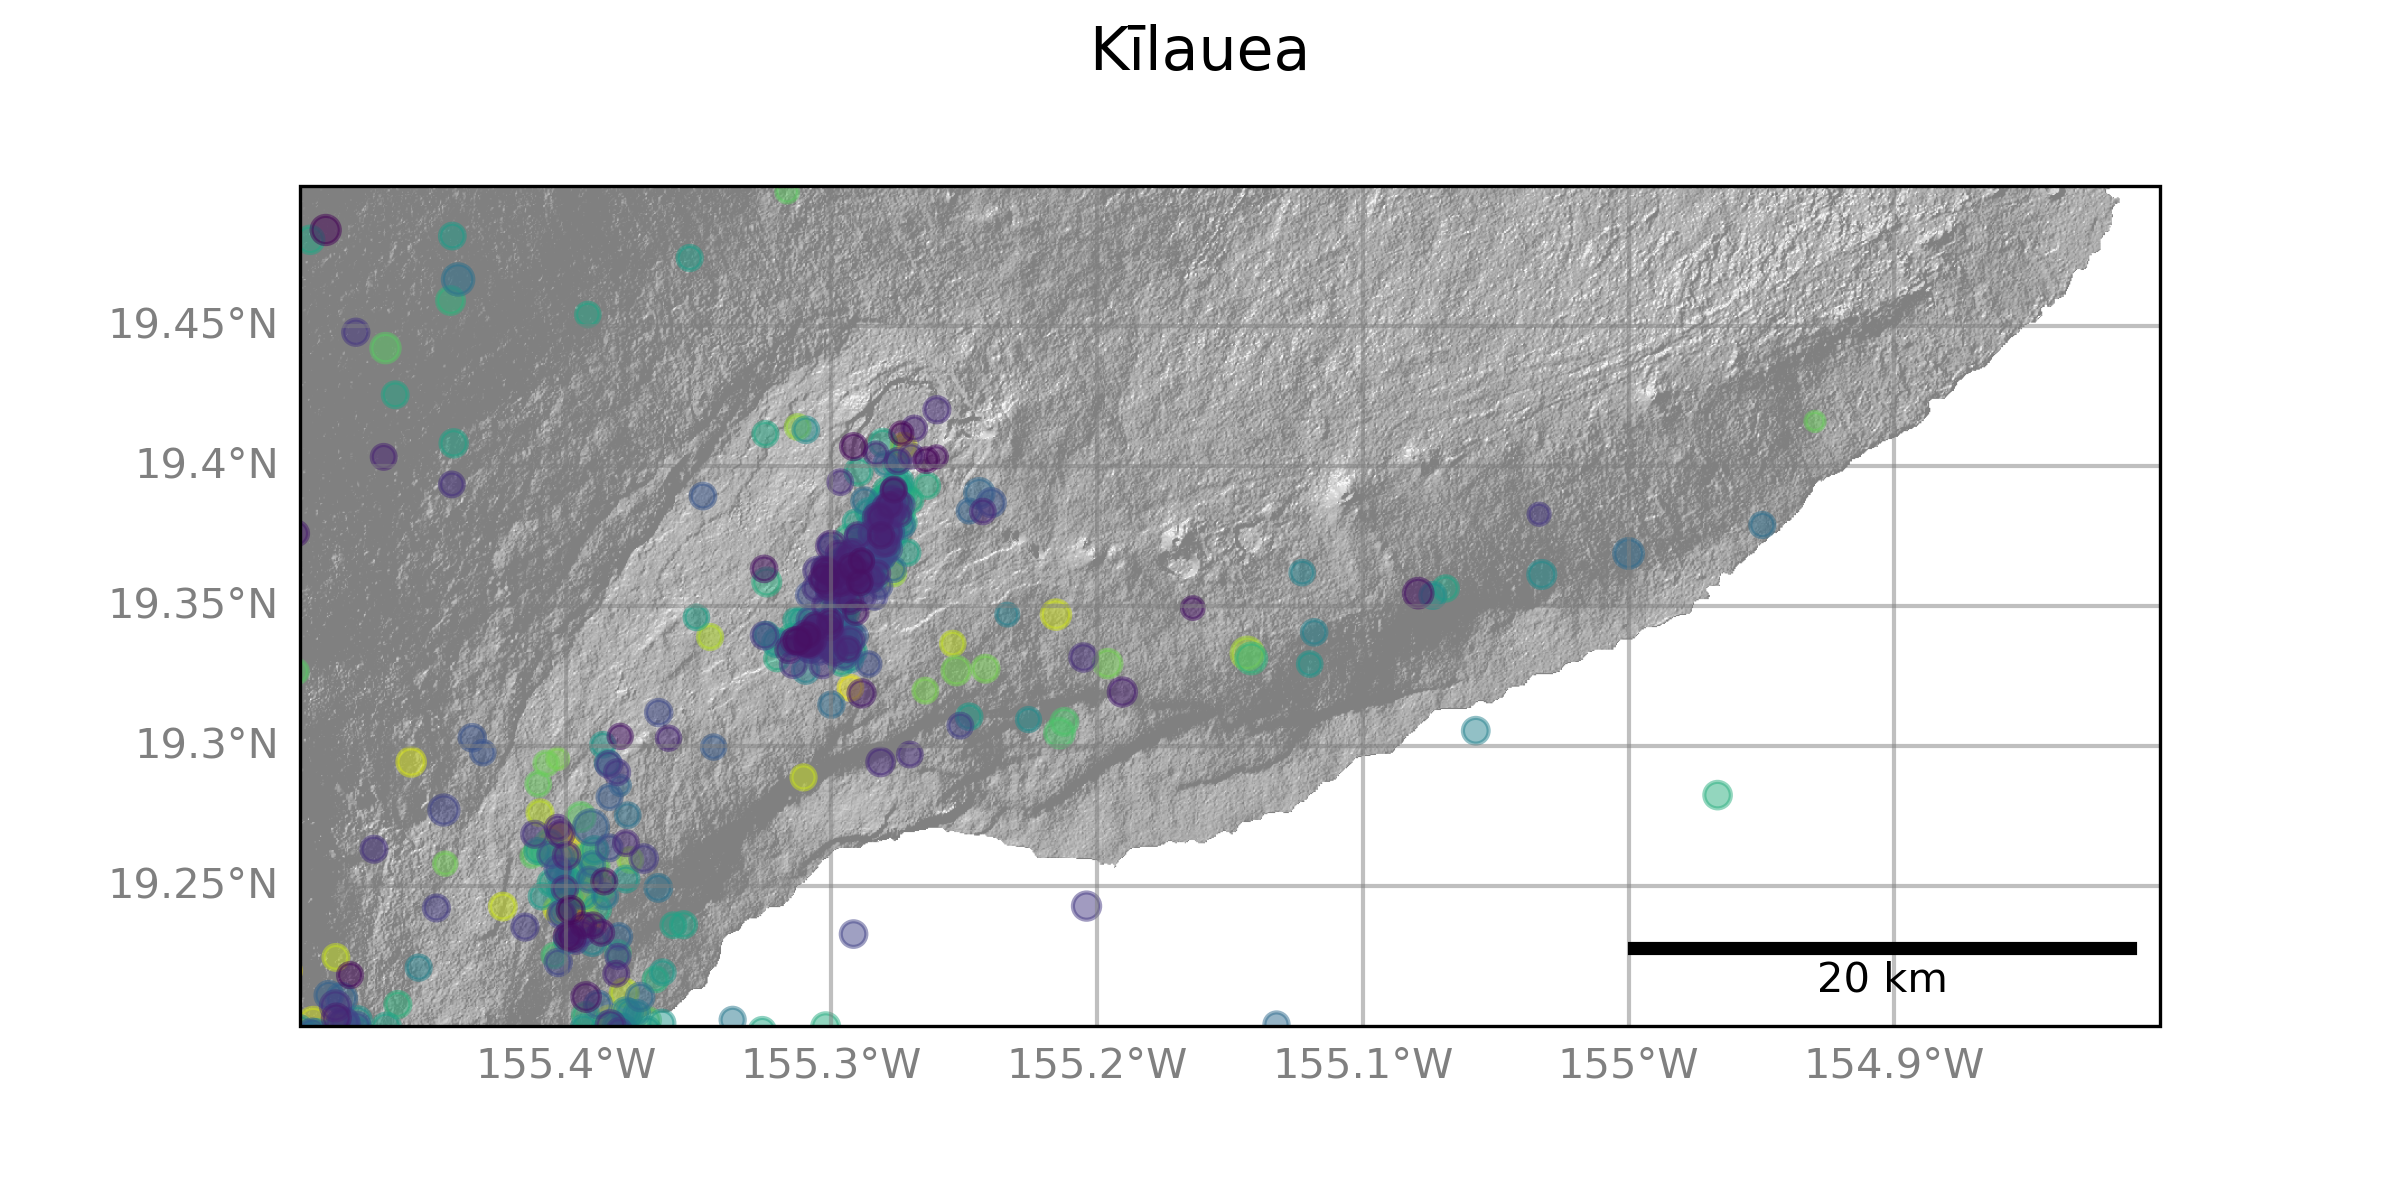
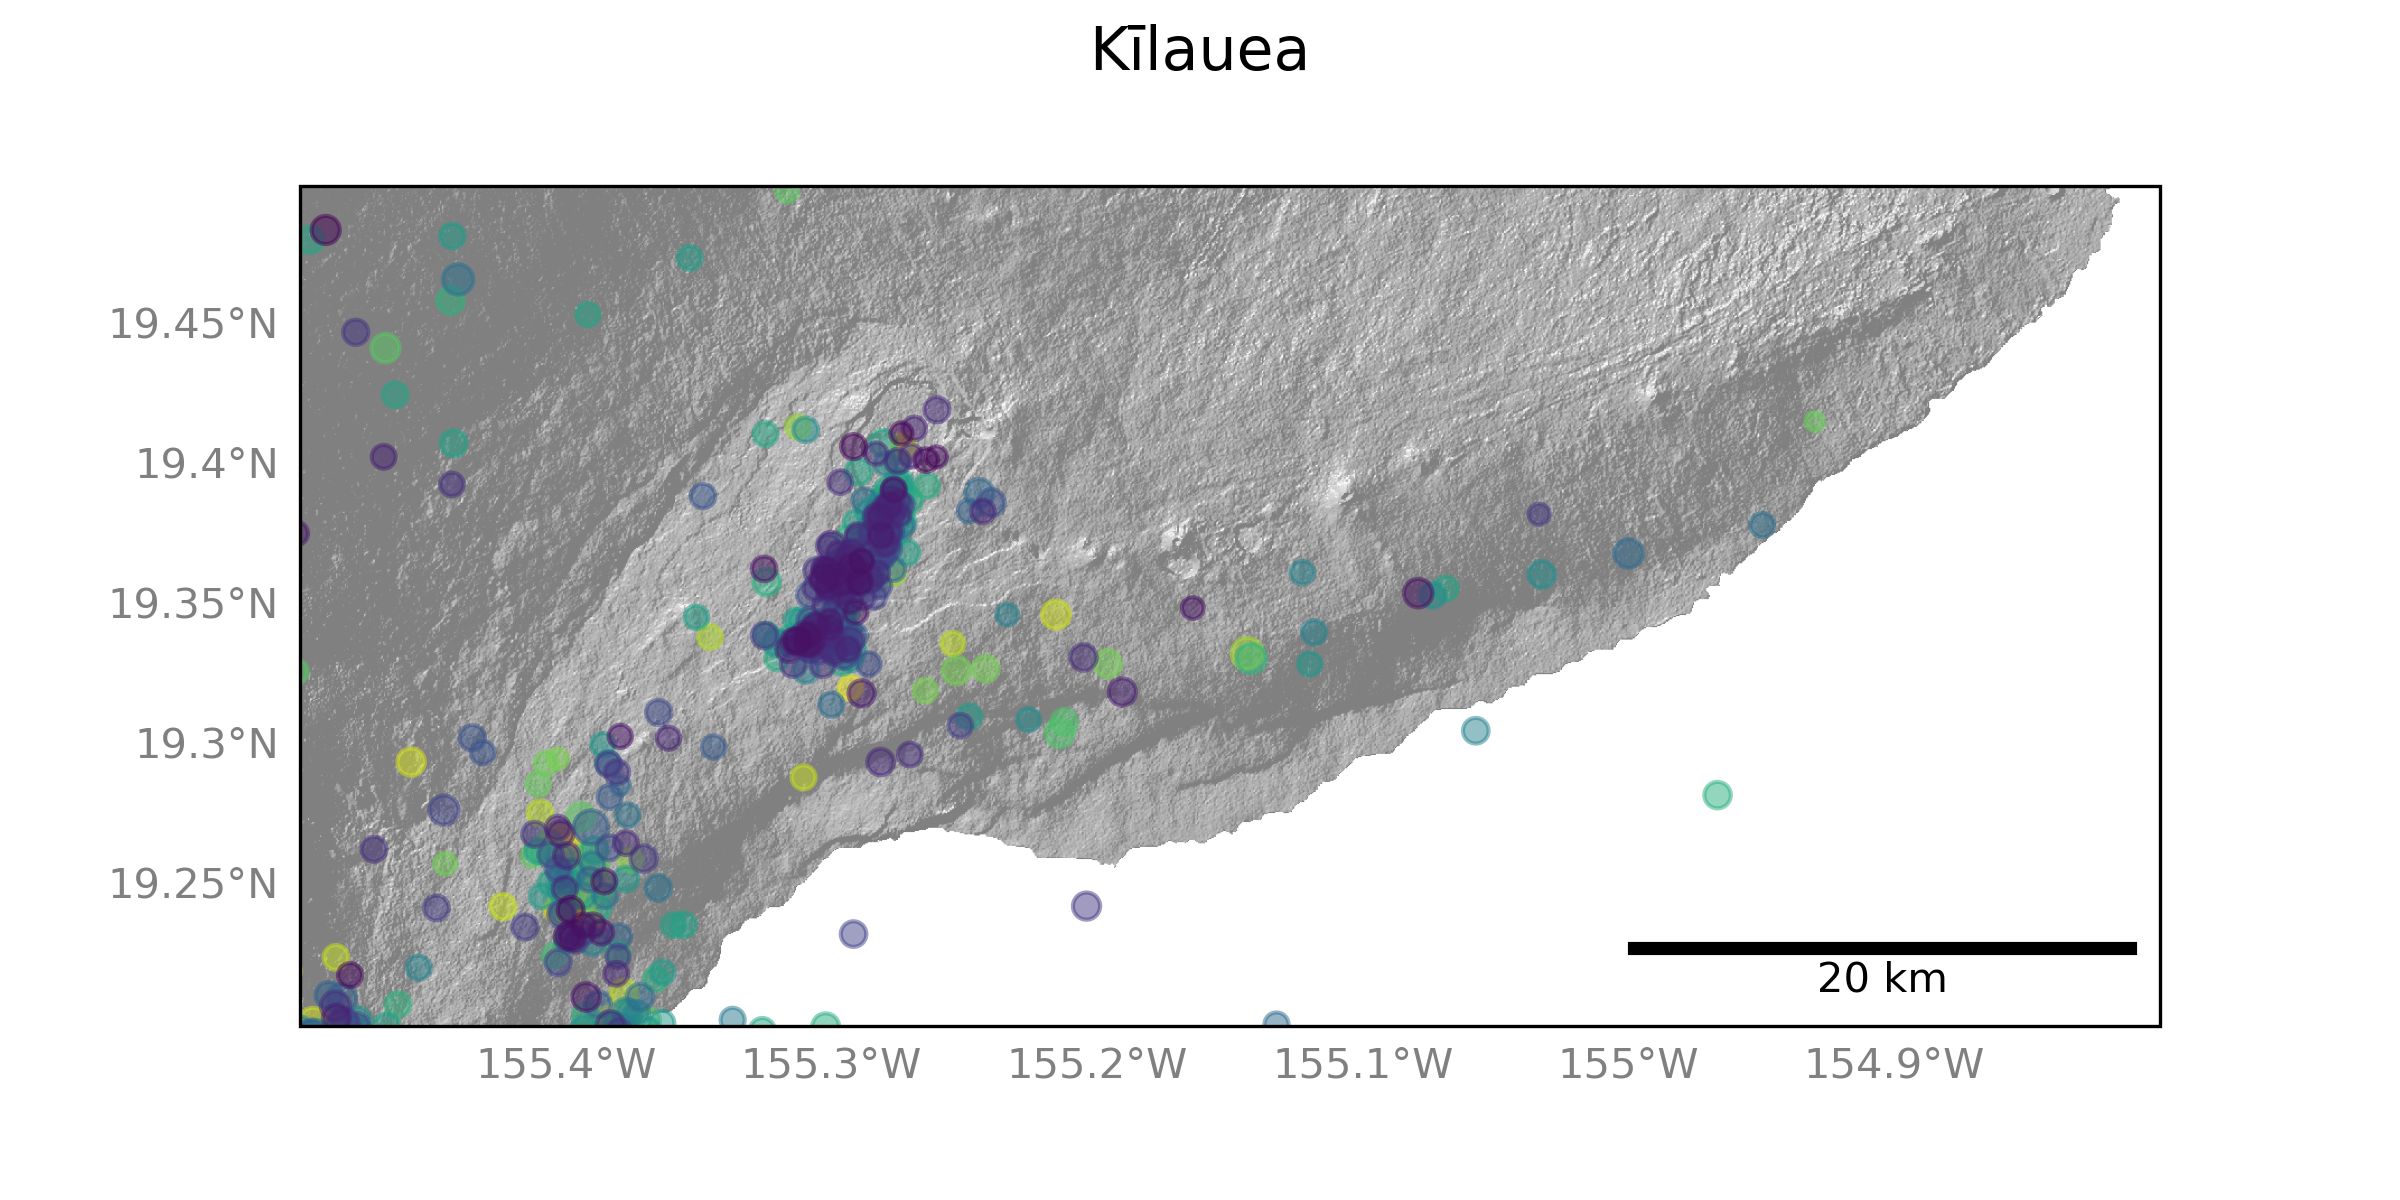
No more gridlines on maps

diff --git a/vdapseisutils/core/maps/maps.py b/vdapseisutils/core/maps/maps.py
@@ -145,7 +145,10 @@ def add_hillshade_pygmt(ax, extent=[-180, 180, -90, 90],
 
     return ax
 
-# Function to convert real-world distance to map units
+########################################################################################################################
+# SCALE BAR
+
+# Distance (km) to _____?
 def get_scale_length(origin, distance_km):
     """
     Convert real-world distance in km to degrees at a given latitude.
@@ -158,7 +161,7 @@ def get_scale_length(origin, distance_km):
     end_lon, end_lat, _ = geod.fwd(lon, lat, 90, distance_km * 1000)  # Move eastward
     return abs(end_lon - lon)  # Return the degree difference
 
-
+# Distance (km) to axes size
 def choose_scale_bar_length(map_width_km, fraction=0.3):
     """
     Given the width of the map in km, return the scale bar length (in km) as the value
@@ -170,10 +173,8 @@ def choose_scale_bar_length(map_width_km, fraction=0.3):
     scale = min(ALLOWED_SCALES, key=lambda x: abs(x - candidate))
     return scale
 
-
 ##############################################################################################################s
 # Misc Axes
-
 
 class MagLegend:
 
@@ -272,62 +273,11 @@ class MagLegend:
             print("M{:>-4.1f} | ms: {:>4.1f} | s: {:>4.1f}".format(M, ms, s))
         print()
 
-
 class ColorBar:
     pass
 
-
-def scale_bar(ax, length=None, location=(0.15, 0.05), linewidth=3):
-    """
-    ax is the axes to draw the scalebar on.
-    length is the length of the scalebar in km.
-    location is center of the scalebar in axis coordinates.
-    (ie. 0.5 is the middle of the plot)
-    linewidth is the thickness of the scalebar.
-
-    Borrowed from: https://stackoverflow.com/questions/32333870/how-can-i-show-a-km-ruler-on-a-cartopy-matplotlib-plot
-    """
-    # Get the limits of the axis in lat long
-    llx0, llx1, lly0, lly1 = ax.get_extent(ccrs.PlateCarree())
-    # Make tmc horizontally centred on the middle of the map,
-    # vertically at scale bar location
-    sbllx = (llx1 + llx0) / 2
-    sblly = lly0 + (lly1 - lly0) * location[1]
-    tmc = ccrs.TransverseMercator(sbllx, sblly)
-    # Get the extent of the plotted area in coordinates in metres
-    x0, x1, y0, y1 = ax.get_extent(tmc)
-    # Turn the specified scalebar location into coordinates in metres
-    sbx = x0 + (x1 - x0) * location[0]
-    sby = y0 + (y1 - y0) * location[1]
-
-    # Calculate a scale bar length if none has been given
-    # (Theres probably a more pythonic way of rounding the number but this works)
-    if not length:
-        length = (x1 - x0) / 5000  # in km
-        ndim = int(np.floor(np.log10(length)))  # number of digits in number
-        length = round(length, -ndim)  # round to 1sf
-
-        # Returns numbers starting with the list
-        def scale_number(x):
-            if str(x)[0] in ['1', '2', '5']:
-                return int(x)
-            else:
-                return scale_number(x - 10 ** ndim)
-
-        length = scale_number(length)
-
-    # Generate the x coordinate for the ends of the scalebar
-    bar_xs = [sbx - length * 500, sbx + length * 500]
-    # Plot the scalebar
-    ax.plot(bar_xs, [sby, sby], transform=tmc, color='k', linewidth=linewidth)
-    # Plot the scalebar label
-    ax.text(sbx, sby, str(length) + ' km', transform=tmc, fontsize=afs,
-            horizontalalignment='center', verticalalignment='bottom')
-
-
 ##############################################################################################################s
 # Misc utils
-
 
 def prep_catalog_data_mpl(catalog, s="magnitude", c="time", maglegend=MagLegend(), time_format="matplotlib"):
     """ PREPCATALOG Converts ObsPy Catalog object to DataFrame w fields appropriate for swarmmpl
@@ -348,7 +298,6 @@ def prep_catalog_data_mpl(catalog, s="magnitude", c="time", maglegend=MagLegend(
     catdata["depth"] *= -1  # below sea level values are negative for swarmmpl purposes
     catdata["size"] = MagLegend().mag2s(catdata["mag"])  # converts magnitudes to point size for scatter plot
     return catdata
-
 
 ##############################################################################################################
 # Figure Classes
@@ -390,15 +339,27 @@ class Map(plt.Figure):
         # self.ax.set_anchor("SW")  # Default is 'C' (But changing to SW has no effect?)
         # self.ax.set_xlabel("Map", fontsize=axlf, labelpad=5)  # This doesn't add anything, for some reason
 
-        # Draw Grid and labels
-        glv = self.ax.gridlines(crs=ccrs.PlateCarree(), draw_labels=True, linewidth=1, color='gray', alpha=0.5, zorder=-10)
+        # Draw Grid and labels - grey lines and labels
+        glv = self.ax.gridlines(crs=ccrs.PlateCarree(), draw_labels=True, linewidth=0, color='gray', alpha=0.5)
         glv.top_labels = False
         glv.bottom_labels = True
         glv.left_labels = True
         glv.right_labels = False
         glv.xlines = True
+        # glv.ylines = True
         glv.xlabel_style = {'size': axlf, 'color': axlc}
         glv.ylabel_style = {'size': axlf, 'color': axlc}
+
+        # # Draw lat,lon ticks and labels, no lines (Cartopy example)
+        # from cartopy.mpl.ticker import LongitudeFormatter, LatitudeFormatter
+        # glv = self.ax.gridlines(crs=ccrs.PlateCarree(), draw_labels=True, linewidth=1, color='gray', alpha=0.5, zorder=-10)
+        # glv.bottom_labels = True
+        # glv.left_labels = True
+        # lon_formatter = LongitudeFormatter(zero_direction_label=True)
+        # lat_formatter = LatitudeFormatter()
+        # self.ax.xaxis.set_major_formatter(lon_formatter)
+        # self.ax.yaxis.set_major_formatter(lat_formatter)
+
 
     def info(self):
         print("::: MAP AXES :::")

diff --git a/gallery/Mapping_tutorial.py b/gallery/Mapping_tutorial.py
@@ -69,7 +69,12 @@ def map_usvolcs():
     fig.add_hillshade(resolution="01s")
     fig.add_scalebar()
     fig.suptitle("Rainier, Washington")
+    # fig.axes[0].tick_params(direction="out", reset=True)
     fig.info()
+
+    # from cartopy.mpl.ticker import LatitudeFormatter, LongitudeFormatter, LatitudeLocator, LongitudeLocator
+    # latloc = LatitudeLocator()
+
     fig.savefig("./output/Mapping_tutorial/Map_Rainier.png")
     plt.show()
 
